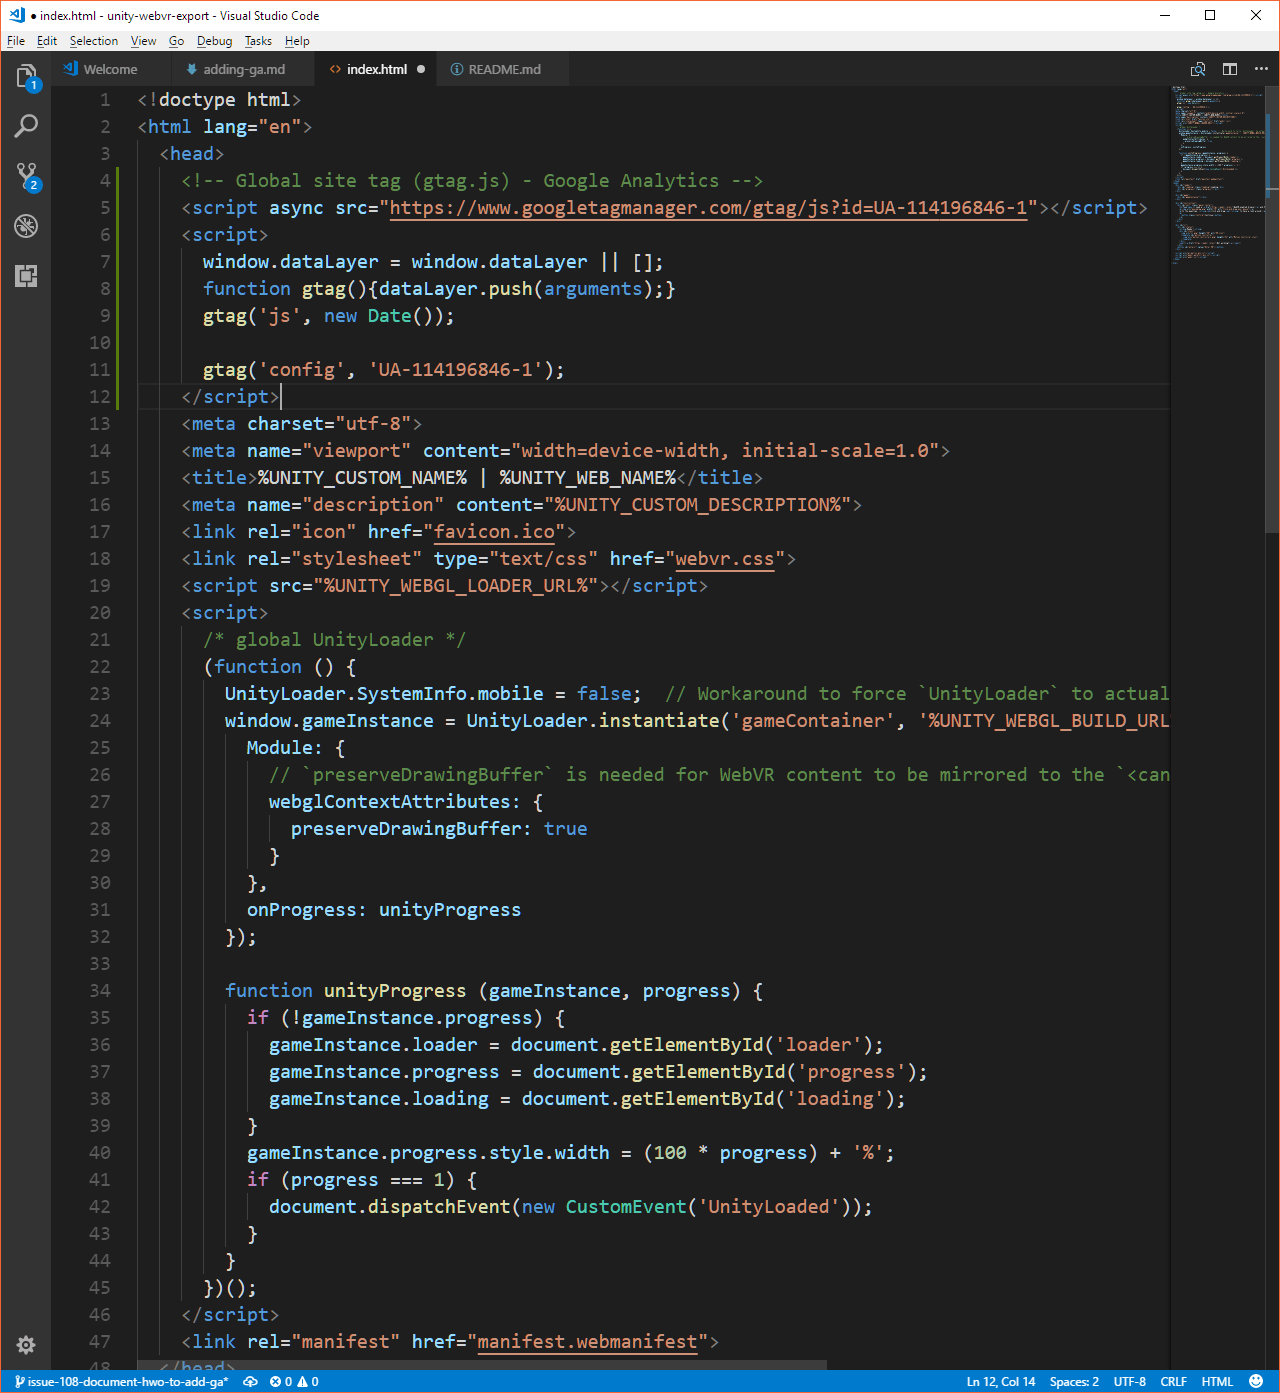
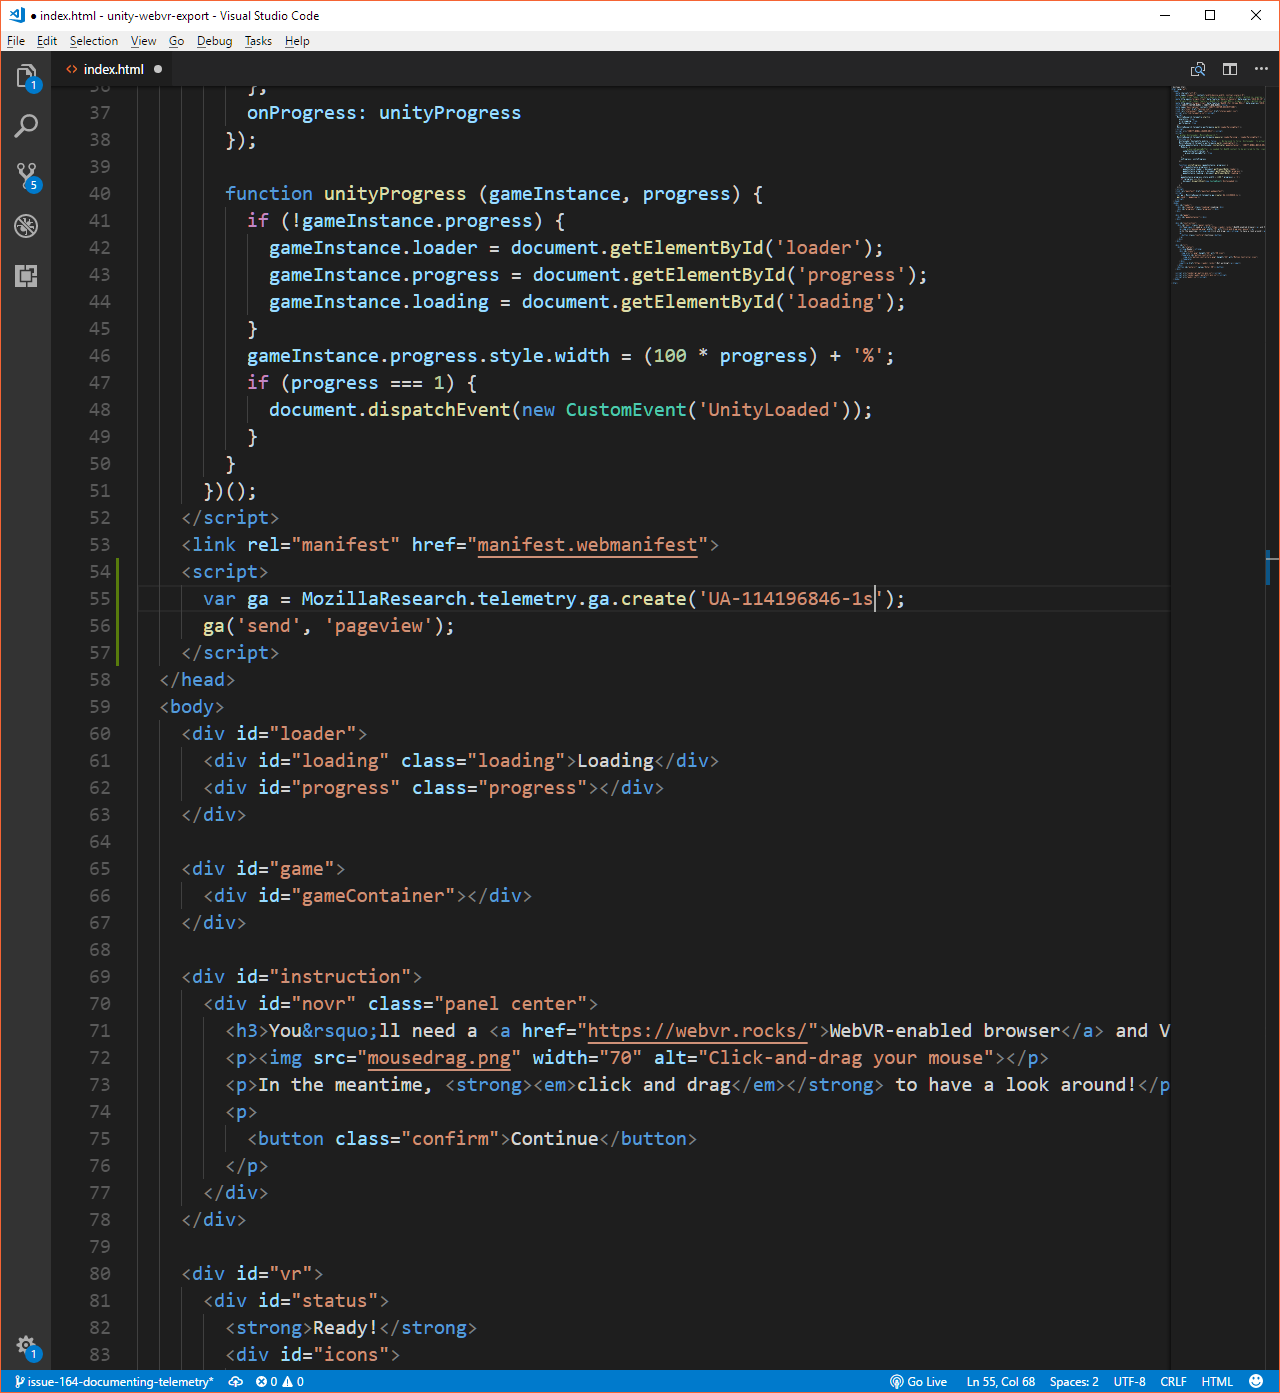
Adding several documentation related to data collection.
Privacy notice in the README.md
Opt-out instructions.
Using GA with the template.

diff --git a/docs/customization/adding-ga.md b/docs/customization/adding-ga.md
@@ -2,9 +2,9 @@
 
 Google Analytics is a popular web analytics service that tracks and reports website traffic. It offers insight about your user behaviour and allows you to make informed decisions regarding the evolution of your site.
 
-You will need to modify the [VR template](../../Assets/WebGLTemplates/WebVR/index.html) that comes with the package, so be sure you've already added [the package from the store](https://u3d.as/1476) to your Unity project.
+The [VR template](../../Assets/WebGLTemplates/WebVR/index.html) that comes with the [Unity package](https://u3d.as/1476) already includes Analytics as a part of the telemetry library used for [collecting usage data](../data-collection.md) but you'll need to set up a Google Analytics account and get a [tracking Id](https://support.google.com/analytics/answer/7372977) first, before using it.
 
-## Set up
+## Quick set up
 
 Start by visiting [Google Analytics](https://analytics.google.com/analytics/web) and sign up for a new account:
 
@@ -22,9 +22,44 @@ This will redirect you to the configuration page where you find the HTML code yo
 
 ![The configuration page includes the instructions for setting up your site](./images/setup-done.png)
 
-Now, in your project, with your favourite code editor, open the file at `Assets/WebGLTemplates/WebVR/index.html` and paste the code provided by Google Analytics inside, preferably at the top of, the `<head>` tag:
+**Don't use the snippet above**. Instead, with your favourite code editor, open the file at `Assets/WebGLTemplates/WebVR/index.html` and paste the following code after including the `telemetry.js` library, preferably at the bottom of the `<head>` tag:
 
-![The code provided by GA should be added right after the head tag](./images/add-to-index.png)
+```html
+<script>
+  var ga = MozillaResearch.telemetry.ga.create('UA-XXXXXXX-Y');
+  ga('send', 'pageview');
+</script>
+```
+
+![The code provided by GA should be added after including the telemetry library](./images/add-to-index.png)
+
+### Template integration of Google Analytics
+
+If you have used Google Analytics before, the previous code should remind you of the familiar Analytics snippet:
+
+```js
+ga('create', 'UA-XXXXXX-Y', 'auto');
+ga('send', 'pageview');
+```
+
+When using Analytics inside the template, use the `create` method of `MozillaReasearch.telemetry.ga` instead of the `create` command. It will return a tracking function which can be used in the same way you would use it in the guide [Sending Data to Google Analytics.](https://developers.google.com/analytics/devguides/collection/analyticsjs/creating-trackers) 
+
+```js
+var ga = MozillaResearch.telemetry.ga.create('UA-XXXXXX-Y', 'auto');
+ga('send', 'pageview');
+```
+
+If you want to customize the way you create the tracker, read [Creating Trackers](https://developers.google.com/analytics/devguides/collection/analyticsjs/creating-trackers) and remember that:
+
+```js
+ga('create', arg1, arg2, ...);
+``` 
+
+Is equivalent to:
+
+```js
+var ga = MozillaResearch.telemetry.ga.create(arg1, arg2, ...);
+```
 
 ## Using Google Analytics
 

diff --git a/docs/customization/disabling-telemetry.md b/docs/customization/disabling-telemetry.md
@@ -1,0 +1,33 @@
+# Disabling telemetry
+
+The code enabling telemetry data collection is in the VR template that comes with the package. Ensure you've already added [the package from the store](https://u3d.as/1476) to your Unity project and look for the following snippet inside the [`index.html` file](../../Assets/WebGLTemplates/WebVR/index.html) of the template:
+
+```js
+MozillaResearch.telemetry.start({
+  analytics: true,
+  errorLogging: true,
+  performance: true
+});
+```
+
+By default, collecting number of visits, error logs and some performance measurements is enabled by setting the proper options (`analytics`, `errorLogging` and `performance` respectively) to `true`.
+
+To prevent the template from sending such information, set the corresponding options to `false`:
+
+```js
+MozillaResearch.telemetry.start({
+  analytics: false,
+  errorLogging: true,
+  performance: false
+});
+```
+
+Or remove/comment the line completely:
+
+```js
+/*MozillaResearch.telemetry.start({
+  analytics: true,
+  errorLogging: true,
+  performance: true
+});*/
+```

diff --git a/README.md b/README.md
@@ -74,6 +74,13 @@ Reach out to us with any questions you may have or help you may need, and partic
 
 * [Join the WebVR Slack](https://webvr.rocks/slack) (join the [#unity channel](https://webvr.slack.com/messages/unity))
 
+## Developer Privacy Notice for Data Collection
+
+To help improve the WebVR API and the WebVR Export assets, Mozilla automatically receives technical, interaction, and error data of end users, using [Sentry](https://sentry.io) and [Google Analytics](https://analytics.google.com/analytics/web/). For example, this includes number of times VR device is mounted and worn; number of times VR mode is enabled and time spent; time for webpages to load and time open; and a unique browser identifier.
+
+Developers can turn off this data collection by [modifying the configuration snippet that comes with the VR template](./docs/customization/disabling-telemetry.md).  
+
+End users can turn off this data collection by enabling [`Do-Not-Track`](https://developer.mozilla.org/en-US/docs/Web/HTTP/Headers/DNT) in their browsers.
 
 ## Credits
 
